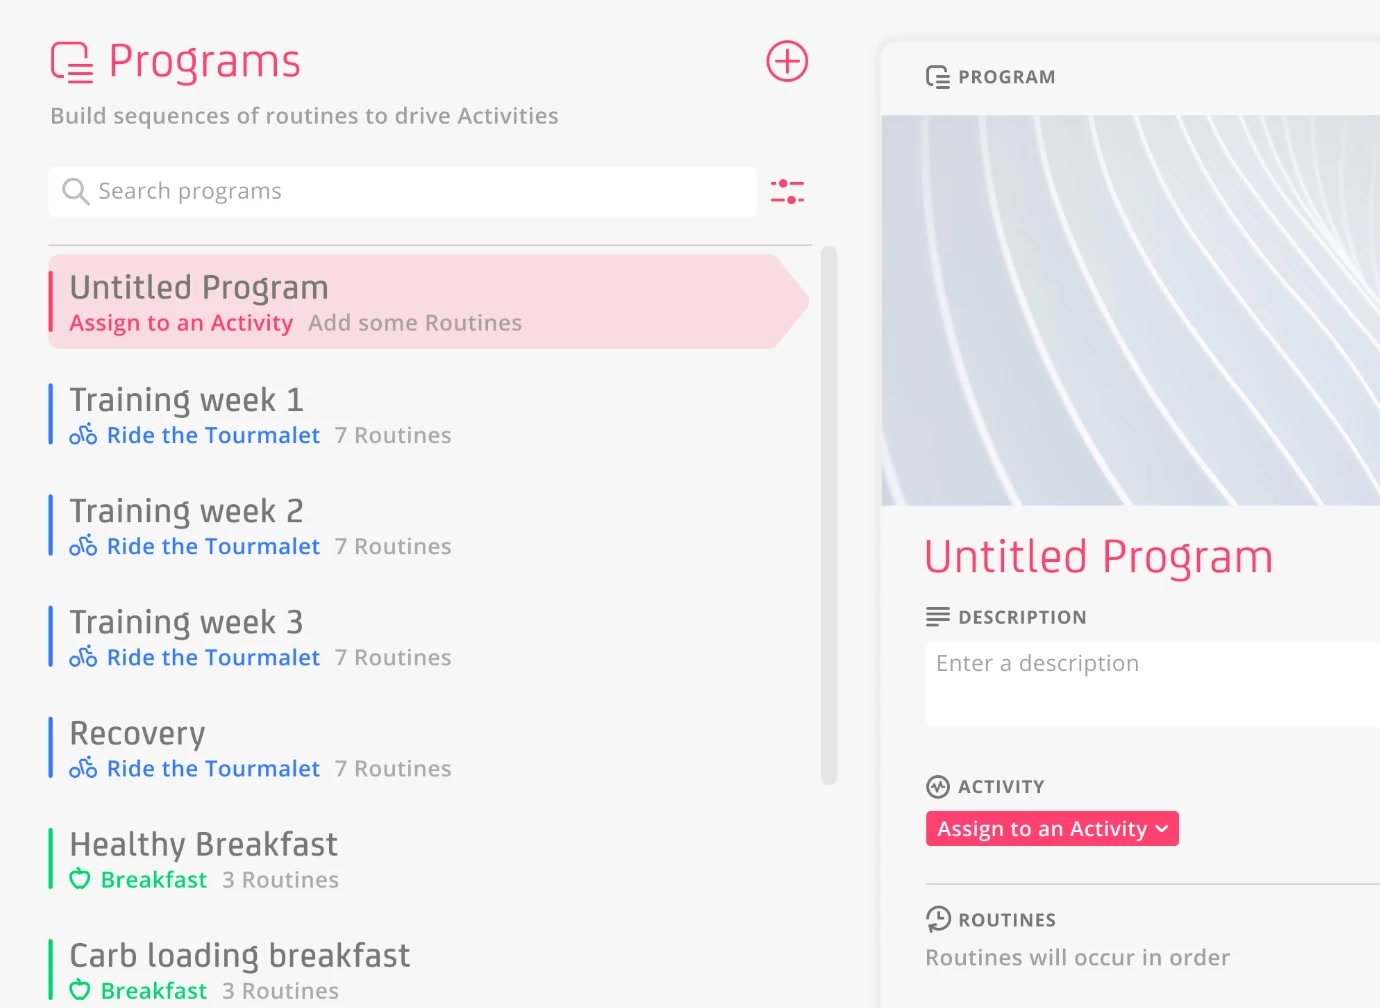
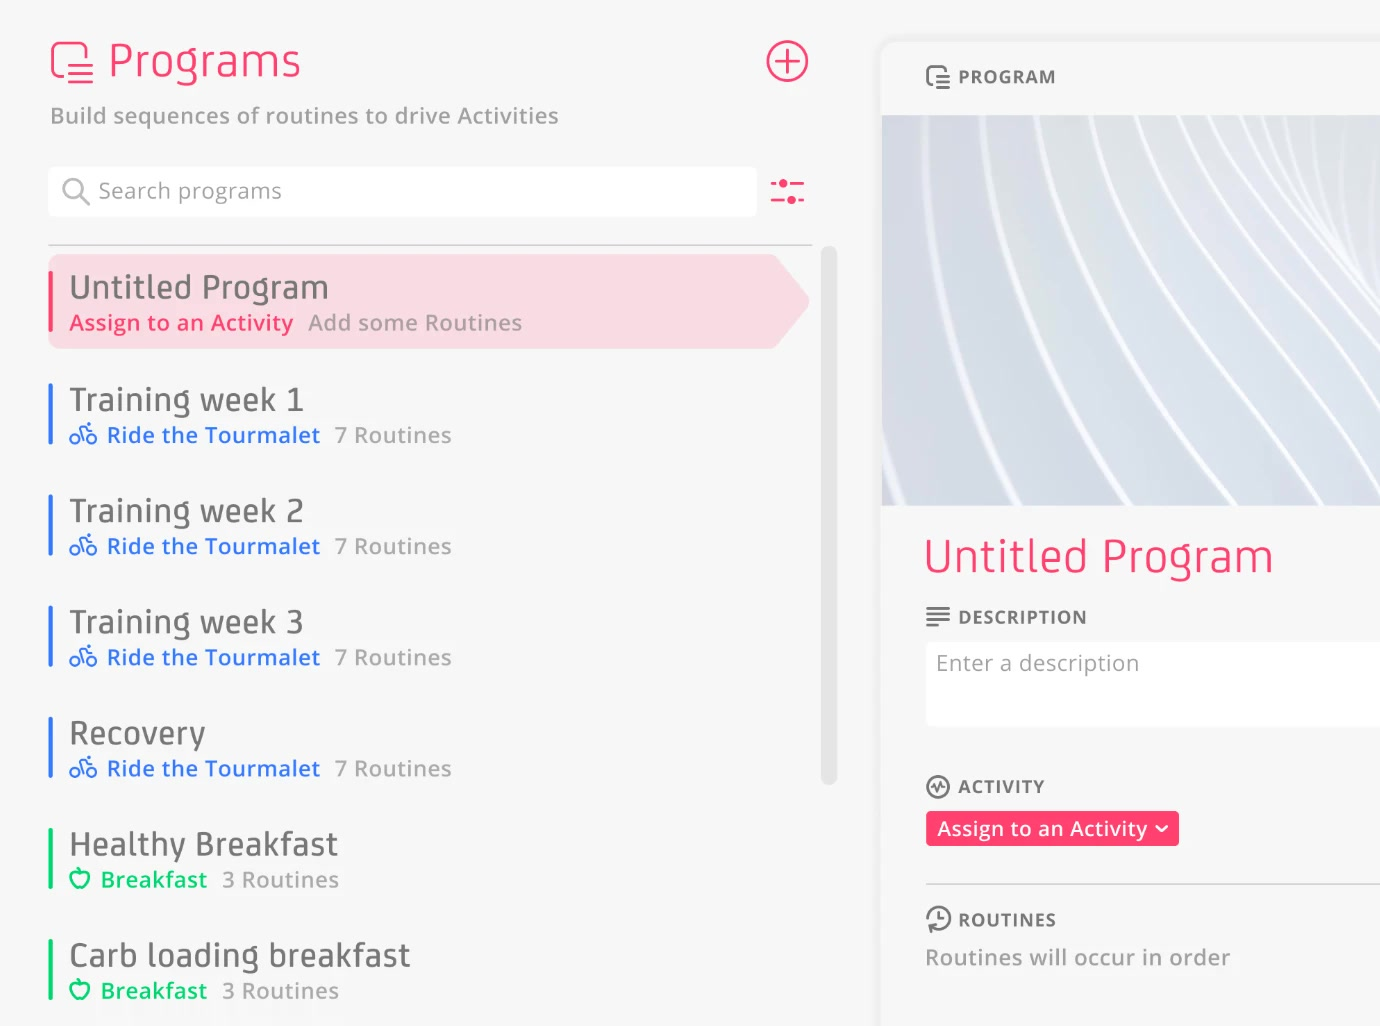
Zonefully hero: a few px more room under the last row (1380x1026)
The next rows down start straight away ("Untitled routine" on the right
at y=1010), so the extra height repeats the blank rows just above the
old edge rather than cropping further into the screenshot.

diff --git a/case-studies/zonefully.html b/case-studies/zonefully.html
@@ -873,7 +873,7 @@
   </nav>
   <div class="zf-hero">
     <div class="zf-hero-media">
-      <img src="media/zonefully-hero-programs.jpg" width="1380" height="1008" alt="Zonefully&rsquo;s Programs screen: a list of programmes, a new &lsquo;Untitled Program&rsquo; selected, and its detail panel opening beside it.">
+      <img src="media/zonefully-hero-programs.jpg" width="1380" height="1026" alt="Zonefully&rsquo;s Programs screen: a list of programmes, a new &lsquo;Untitled Program&rsquo; selected, and its detail panel opening beside it.">
     </div>
     <div class="zf-hero-text">
       <h1 class="display head-fade">Connecting <span class="nowrap">long-term</span> goals to everyday routines</h1>
